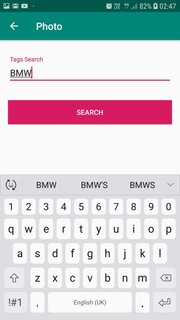
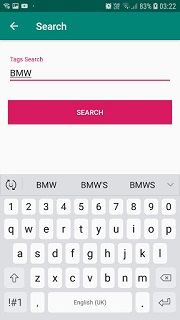
Updated search title

diff --git a/app/src/main/java/com/flickr/photos/search/ui/photo/PhotoSearchActivity.kt b/app/src/main/java/com/flickr/photos/search/ui/photo/PhotoSearchActivity.kt
@@ -14,7 +14,7 @@ class PhotoSearchActivity : AppCompatActivity() {
         super.onCreate(savedInstanceState)
         setContentView(R.layout.activity_fragment)
         supportActionBar?.setDisplayHomeAsUpEnabled(true)
-        title = getString(R.string.photo)
+        title = getString(R.string.search)
         addPhotosFragment()
     }
 
